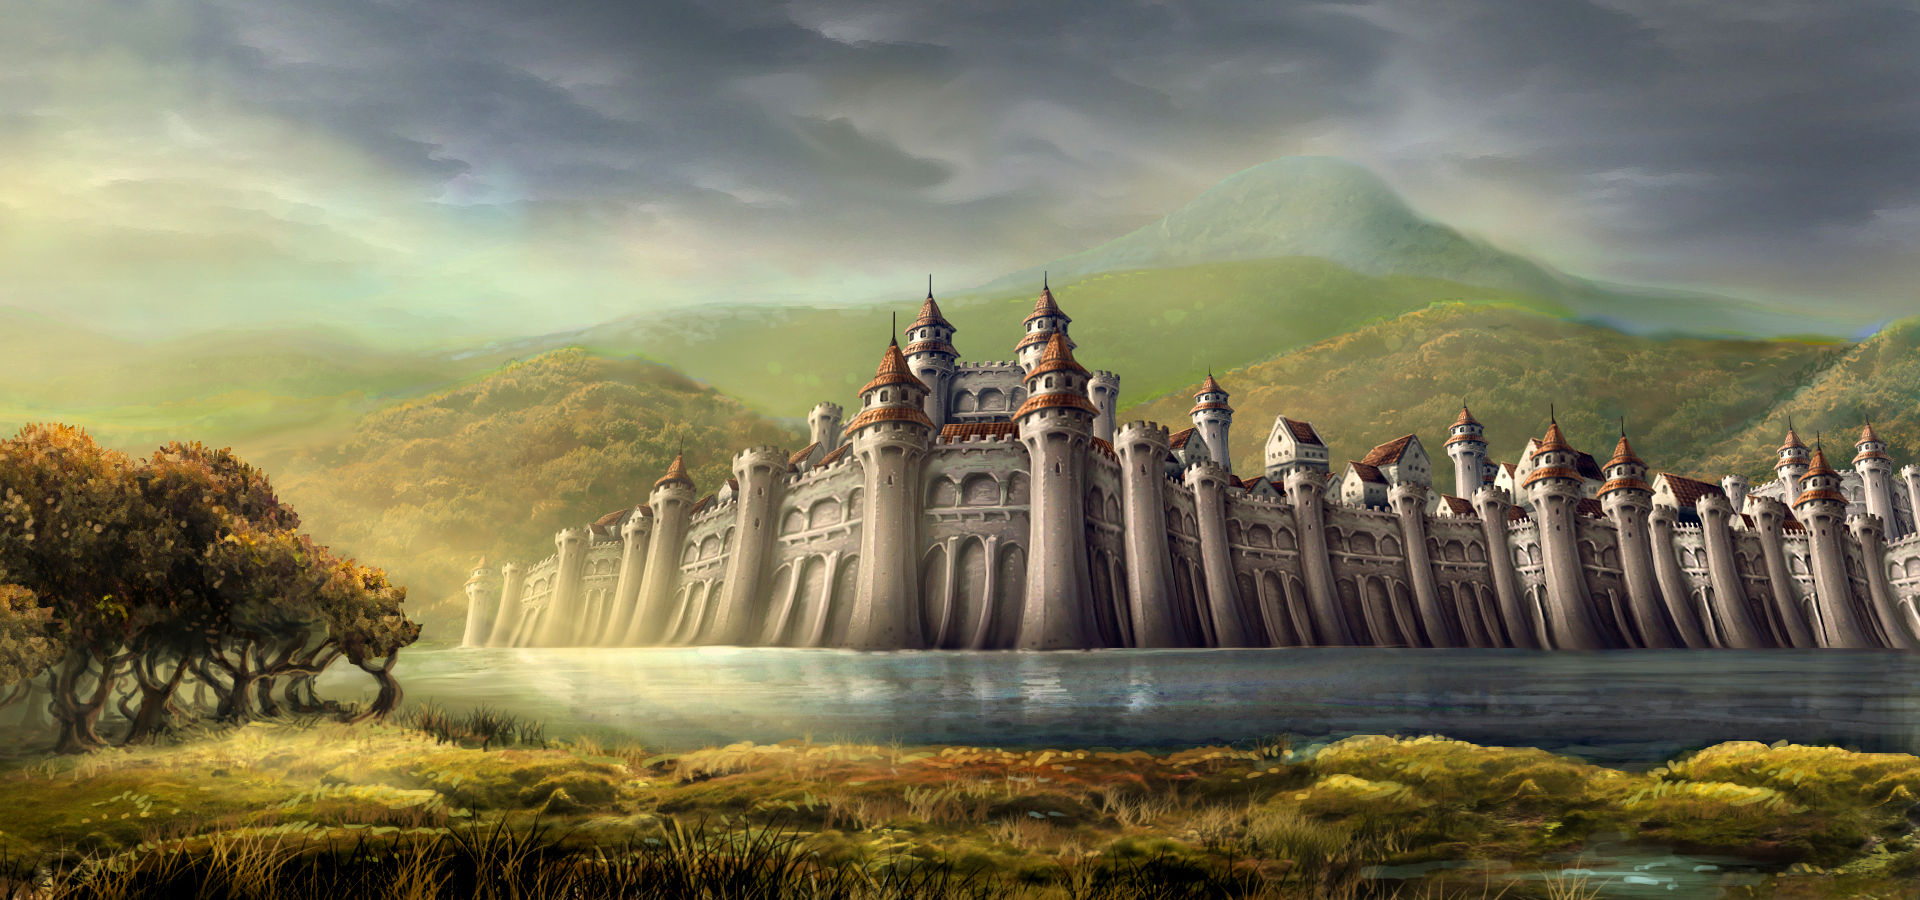
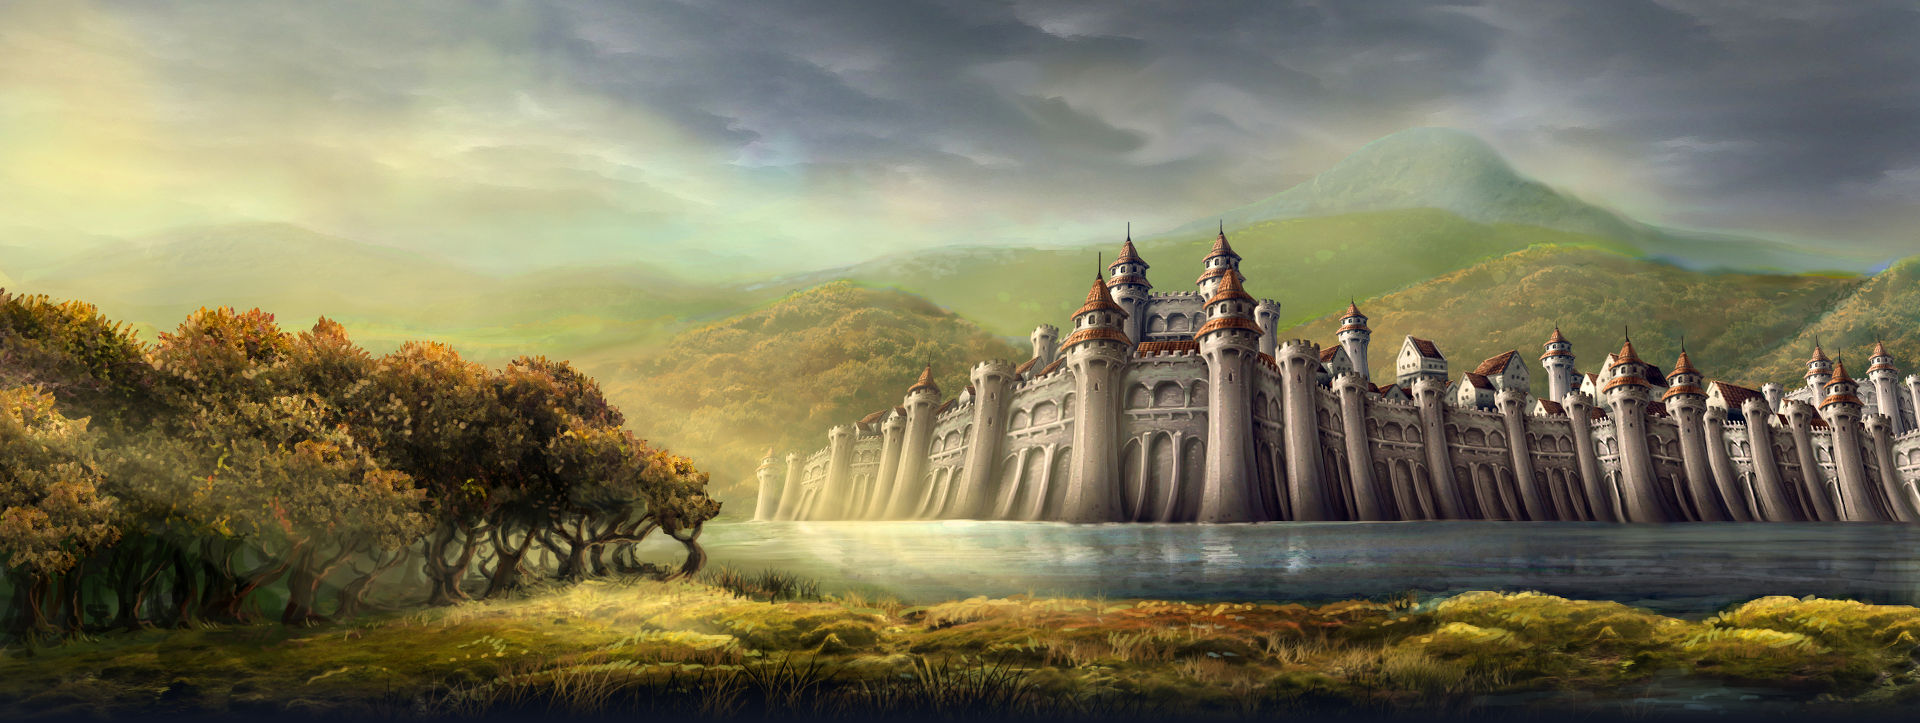
Rearrange header bg, apply a fading border, and make section divider thinner
Rearranging the background image was necessary to make it less
conspicuously misaligned relative to the logo. Now the logo isn't
aligned to anything, but it doesn't look like it's *supposed* to be
aligned either, which is the superior option.

The image is also now rearranged on low resolutions so that there is
about as much sky visible as in the high resolution ruleset.

By applying a fading border (and the background color from the divider),
it's less conspicuous when the image gets clipped at the bottom, and the
divider can be made thinner.

diff --git a/start/1.12/styles/westin.css b/start/1.12/styles/westin.css
@@ -45,7 +45,7 @@ body {
 }
 
 #header {
-  background: #272727 url('../images/header-1920.jpg') bottom center no-repeat;
+  background: #0f1421 url('../images/header-1920.jpg') bottom center no-repeat;
   border-bottom: 1px solid #0f1421;
   min-height: 300px;
   padding: 2em 0;
@@ -116,8 +116,6 @@ html>body #languages {
 
 .divider,
 #footer {
-  padding: 4px;
-  border-top: 1px solid #a27f44;
   border-bottom: 1px solid #724f2e;
 
   background: #0f1421;
@@ -386,7 +384,8 @@ div.tright {
 @media only screen and (max-width: 699px) {
   #header {
     padding-bottom: 0;
-    background-position: top center;
+    background-size: 1280px 439px;
+    background-position: center top;
   }
 
   #intro {
